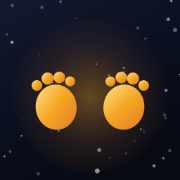
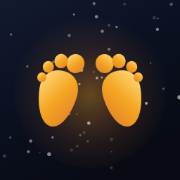
fix: 底部殘留白邊 + 腳印解剖錯誤
底部白邊（先前的畫布修正只解決了一半）：
根元素的背景「顏色」會塗滿整個視窗畫布，但背景「圖片」（漸層）只塗滿
html 自己的盒子。iOS Safari 工具列收合後可視高度大於 100%，多出來那塊
沒有漸層可塗，就露出瀏覽器預設白底。
- 補 html{background-color} 確保任何情況下都是深色
  （必須寫在 background 簡寫之後，否則會被簡寫重設為透明）
- 版面高度改用 100dvh，工具列收合時不再少一截

腳印形狀：
原本先畫直立的趾頭、再單獨旋轉腳掌，導致小趾懸空在腳掌外沒有腳底。
改為先在直立姿態下把四趾長在腳掌前緣輪廓上（大拇趾在內側、最前最大，
向外側依序後退變小），最後整隻腳一起旋轉，趾頭才不會脫離腳掌。
字標與圖示同步更新。

diff --git a/index.html b/index.html
@@ -29,6 +29,12 @@
      linear-gradient(170deg,#080b14 0%,#0c101d 45%,#0a0d18 100%);
     color:var(--ink);font-family:-apple-system,"Segoe UI","PingFang TC","Microsoft JhengHei",sans-serif;
     -webkit-user-select:none;user-select:none;}
+  /* 必須寫在 background 簡寫之後（簡寫會把 background-color 重設為透明）。
+     根元素的背景「顏色」會塗滿整個視窗畫布，但背景「圖片」（漸層）只塗滿 html 自己的盒子；
+     iOS Safari 工具列收合後可視高度大於 100%，多出來那塊沒有漸層就露出預設白底。 */
+  html{background-color:#080b14;}
+  /* 版面高度改用動態視窗單位，工具列收合時才不會少一截 */
+  @supports (height:100dvh){html,body{height:100dvh;}}
   /* z0 星空層（JS 產生一次貼圖後鋪滿） */
   #stars{position:fixed;inset:0;z-index:0;pointer-events:none;opacity:.75;}
   /* z0 地球後方光暈：冷色，像大氣在太空中的散射 */
@@ -49,8 +55,8 @@
   .title{font-size:20px;display:flex;align-items:center;line-height:1;white-space:nowrap;}
   .title .en{background:var(--grad);-webkit-background-clip:text;background-clip:text;color:transparent;font-weight:700;letter-spacing:.03em;
     filter:drop-shadow(0 0 12px rgba(245,166,34,.35));}
-  /* 兩個腳印取代 oo：高度對齊 x-height、腳趾略高於字身當作視覺重音 */
-  .oo{height:.86em;width:auto;display:block;margin:0 .04em;transform:translateY(.08em);
+  /* 兩個腳印取代 oo。viewBox 已裁到緊貼圖形，故 margin 就是實際字距 */
+  .oo{height:.95em;width:auto;display:block;margin:0 .07em;transform:translateY(.07em);
     filter:drop-shadow(0 0 8px rgba(245,166,34,.35));}
   /* 地球風格切換 */
   .styleSwitch{position:fixed;z-index:20;top:calc(env(safe-area-inset-top) + 12px);right:14px;
@@ -157,17 +163,25 @@
   <!-- 字標：footsteps 的兩個 o 換成腳印（o 本來就長得像腳掌） -->
   <div class="title" role="img" aria-label="footsteps">
     <span class="en" aria-hidden="true">f</span>
-    <svg class="oo" viewBox="0 0 44 28" aria-hidden="true">
-      <defs><linearGradient id="fg" x1="0" y1="0" x2="1" y2="1"><stop offset="0" stop-color="#ffd166"/><stop offset=".55" stop-color="#f5a622"/><stop offset="1" stop-color="#e07b2c"/></linearGradient></defs>
+    <!-- viewBox 緊貼圖形外框（無多餘留白），字距才不會被撐開 -->
+    <svg class="oo" viewBox="4 3 66 46" aria-hidden="true">
+      <defs>
+        <linearGradient id="fg" x1="0" y1="0" x2="1" y2="1"><stop offset="0" stop-color="#ffd166"/><stop offset=".55" stop-color="#f5a622"/><stop offset="1" stop-color="#e07b2c"/></linearGradient>
+        <!-- 嬰兒腳印（左腳）。先在直立姿態下把四趾長在腳掌前緣輪廓上：
+             大拇趾在內側、最前最大，向外側依序後退變小；
+             最後整隻腳一起旋轉，趾頭才不會脫離腳掌浮在空中。 -->
+        <g id="ftShape" transform="rotate(12 17 27)">
+          <path d="M18 14C26 14 30 20 29.5 27C29 36 25 48 18 48C11 48 7 36 6.5 27C6 20 10 14 18 14Z"/>
+          <ellipse cx="24.5" cy="8.2" rx="5.4" ry="5.7"/>
+          <ellipse cx="15.8" cy="8.5" rx="4" ry="4.3"/>
+          <ellipse cx="9" cy="13.5" rx="3.3" ry="3.5"/>
+          <ellipse cx="6.5" cy="20.4" rx="2.7" ry="2.9"/>
+        </g>
+      </defs>
+      <!-- 圖形本身是左腳（大拇趾在趾列右上、腳掌向左下傾斜），故右腳才鏡射 -->
       <g fill="url(#fg)">
-        <g transform="rotate(-7 11 17)">
-          <ellipse cx="11" cy="17.6" rx="6.6" ry="7.3"/>
-          <circle cx="5.7" cy="9.9" r="1.7"/><circle cx="9.4" cy="8.1" r="1.95"/><circle cx="13.2" cy="8.2" r="1.85"/><circle cx="16.5" cy="9.9" r="1.6"/>
-        </g>
-        <g transform="translate(22,0) rotate(7 11 17)">
-          <ellipse cx="11" cy="17.6" rx="6.6" ry="7.3"/>
-          <circle cx="5.7" cy="9.9" r="1.6"/><circle cx="9.0" cy="8.2" r="1.85"/><circle cx="12.8" cy="8.1" r="1.95"/><circle cx="16.5" cy="9.9" r="1.7"/>
-        </g>
+        <use href="#ftShape"/>
+        <use href="#ftShape" transform="translate(74,0) scale(-1,1)"/>
       </g>
     </svg>
     <span class="en" aria-hidden="true">tsteps</span>
